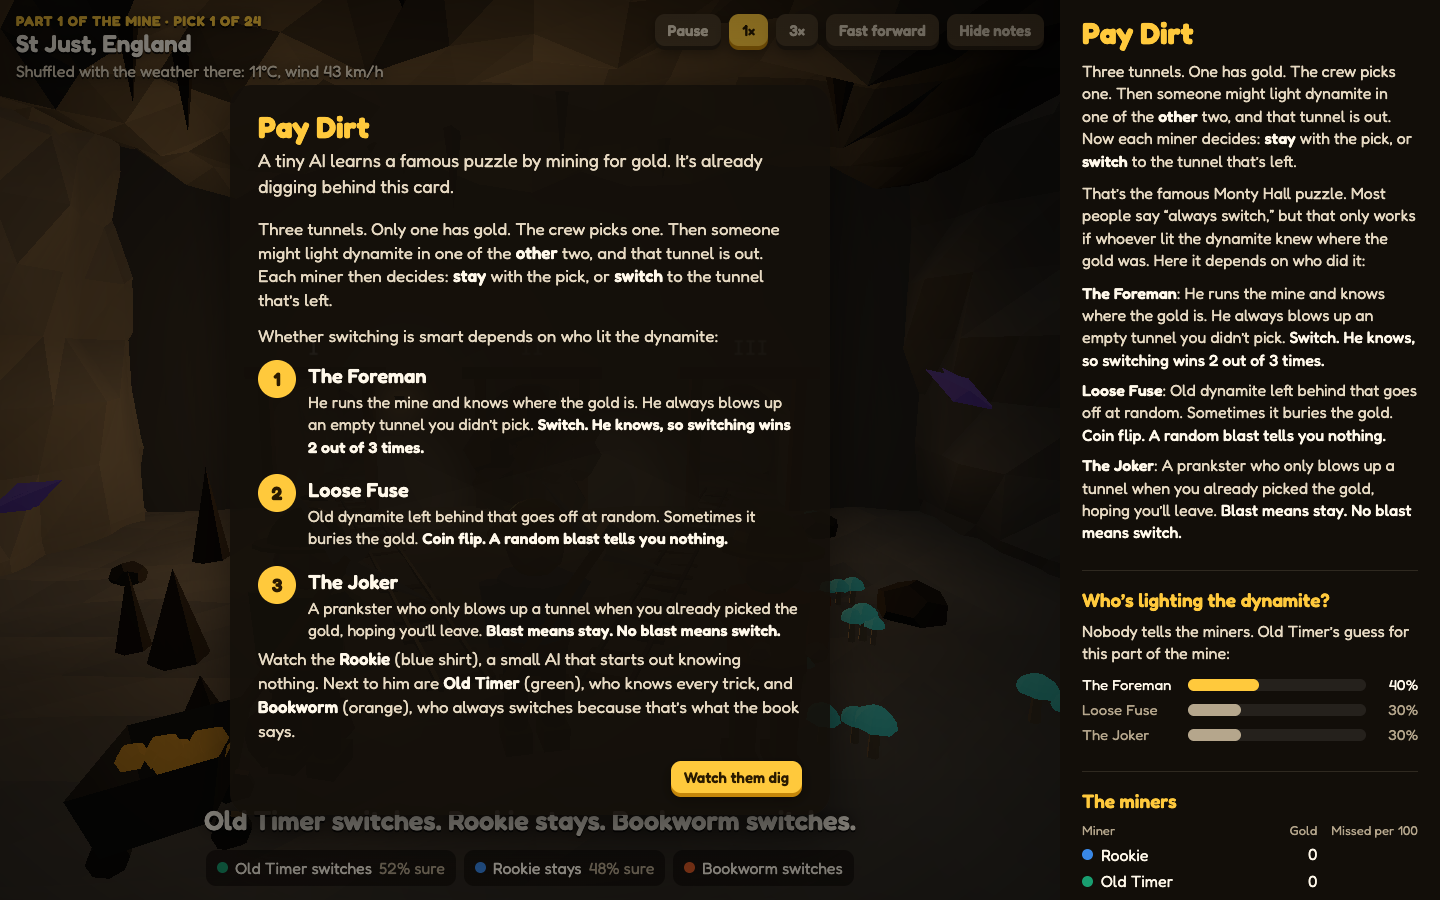
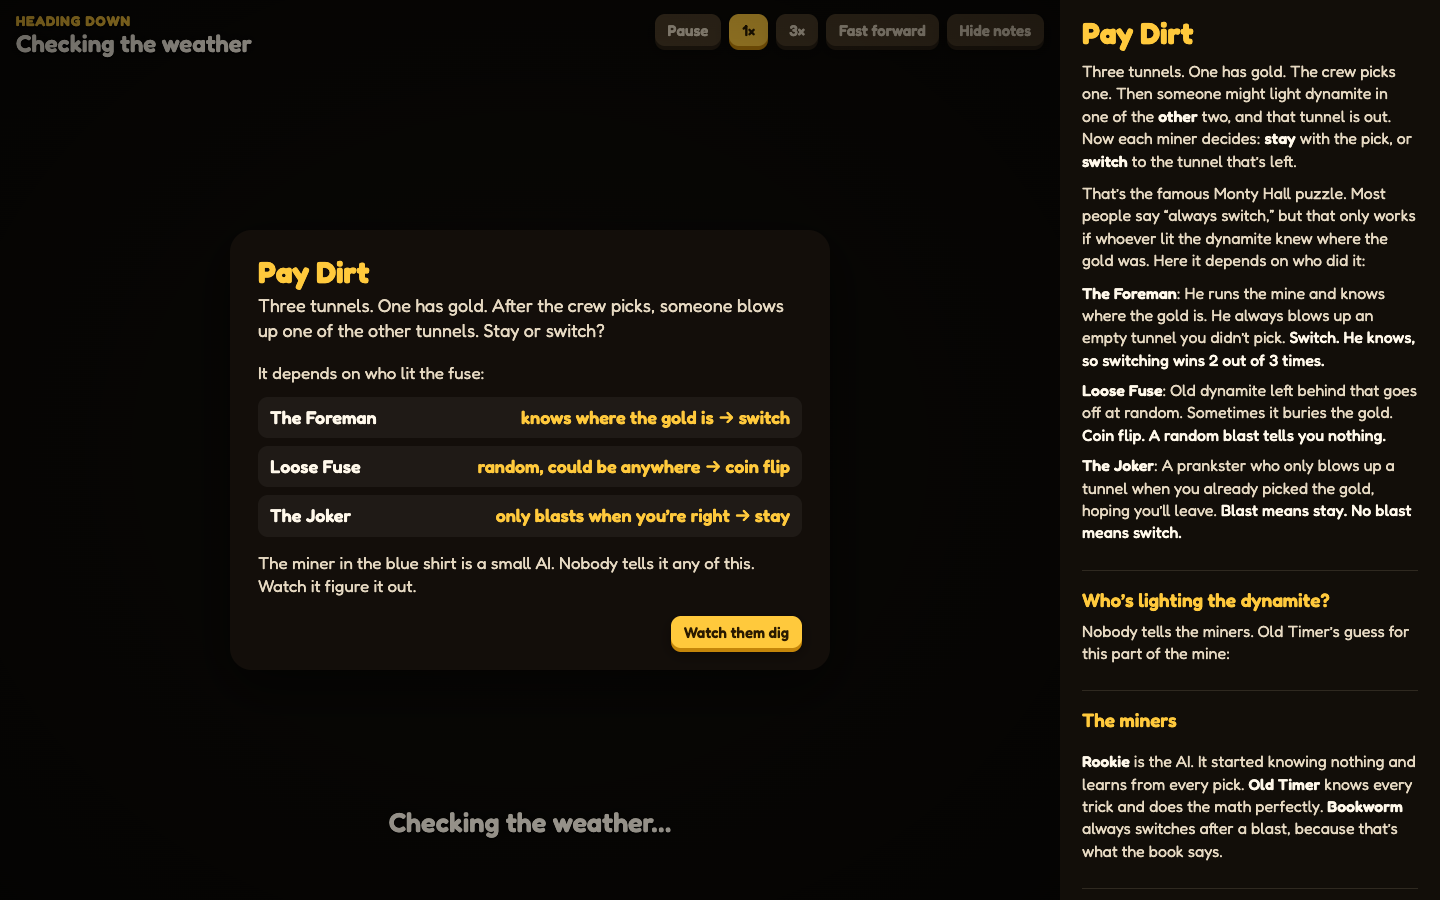
visible dynamite, fixed bookworm arms, short welcome card, never stall on first load
- dynamite strapped to the timber post, lamps on it, 2s fuse, the boom caption waits for the real blast
- bigger longer flash and shake, more rubble falling slower in a lighter color
- camera higher so tunnel mouths sit above the miners
- bookworm holds his book in front instead of arms out the back
- welcome card cut down to the idea in four lines
- startup waits at most 2.5s for weather and 1.5s for storage, then runs and switches to live weather when it lands
- #bare hides the notes; animated gif at the top of the readme

diff --git a/web/cave.js b/web/cave.js
@@ -7,7 +7,7 @@ import { createNoise3D } from 'simplex-noise';
 import { mulberry32 } from './sim.js';
 
 export const MINER_COLORS = { Oracle: 0x199e70, Apprentice: 0x3987e5, Parrot: 0xd95926 };
-const SPOTS = { Oracle: [-4, 6.9], Apprentice: [0, 6], Parrot: [4, 6.9] };
+const SPOTS = { Oracle: [-4.5, 7.6], Apprentice: [0, 7], Parrot: [4.5, 7.6] };
 const STYLES = {
   Oracle: { shirt: 0x2f8a63, pants: 0x4a4035, helmet: 0x7d6a3a, beard: 0xd8d4cc, stoop: 0.12, pick: true },
   Apprentice: { shirt: 0x3d7fd6, pants: 0x3c4a63, helmet: 0xf2c230, beard: null, stoop: 0, pick: true },
@@ -22,7 +22,7 @@ const HIDDEN = new THREE.MeshBasicMaterial({ visible: false });
 const flat = (color, extra = {}) => new THREE.MeshStandardMaterial({ color, flatShading: true, roughness: 0.92, ...extra });
 const MAT = {
   wood: flat(0x6b4a2b), woodDark: flat(0x4a321d), iron: flat(0x62666b, { metalness: 0.5, roughness: 0.5 }),
-  rock: flat(0x4b4239), rubble: flat(0x3e3630), stem: flat(0xd8ccb4),
+  rock: flat(0x4b4239), rubble: flat(0x7a6a58), stem: flat(0xd8ccb4),
   cap: flat(0x7fd6c9, { emissive: 0x1f8f86, emissiveIntensity: 0.9 }),
   crystal: flat(0xb79cf0, { emissive: 0x4b2a8a, emissiveIntensity: 0.7, roughness: 0.3 }),
   ore: flat(0xe7b84f, { emissive: 0x8a5a10, emissiveIntensity: 1.2, metalness: 0.6, roughness: 0.25 }),
@@ -94,7 +94,7 @@ export class Cave {
       return s;
     });
     this.home = this.crew.Apprentice.home;
-    this.camPos = new THREE.Vector3(0, 7.4, 18);
+    this.camPos = new THREE.Vector3(0, 10, 19);
     this.camLook = new THREE.Vector3(0, 3.5, -10);
     this.goalPos = this.camPos.clone();
     this.goalLook = this.camLook.clone();
@@ -343,8 +343,8 @@ export class Cave {
       c.m.rotation.set(0, 0, 0);
       c.aim.set(c.home.x, 2, BACK - 5);
     }
-    this.goalPos.set(0, 7.4, 18);
-    this.goalLook.set(0, 3.2, -10);
+    this.goalPos.set(0, 10, 19);
+    this.goalLook.set(0, 2.4, -10);
   }
 
   aimAll(point) { for (const c of Object.values(this.crew)) c.aim.copy(point); }
@@ -363,7 +363,7 @@ export class Cave {
   }
 
   settle() {
-    for (const e of [...this.effects]) if (e.kind === 'fuse' && !e.done) { e.done = true; this.explode(e.t0, e.ring, e.tnt); }
+    for (const e of [...this.effects]) if (e.kind === 'fuse' && !e.fired) { e.fired = true; this.explode(e.t0, e.ring, e.tnt); e.done(); }
     for (const e of this.effects) if (e.kind === 'fall') e.group.children.forEach((m) => { m.visible = true; m.position.copy(m.userData.rest); });
     this.effects = this.effects.filter((e) => e.kind !== 'fall');
   }
@@ -374,12 +374,12 @@ export class Cave {
     this.labels.forEach((l, i) => { l.material.opacity = i === t ? 1 : 0.5; });
   }
 
-  // someone lights dynamite at the mouth of tunnel t. the fuse burns, then boom
-  blast(t, ring) {
+  // someone lights dynamite at the mouth of tunnel t. the fuse burns, then boom. resolves when it goes off
+  blast(t, ring, fuseSeconds = 2) {
     const tn = this.tunnels[t];
     const tnt = new THREE.Group();
     for (const [x, z] of [[-0.28, 0], [0.28, 0], [0, 0.3]]) {
-      const stick = new THREE.Mesh(new THREE.CylinderGeometry(0.22, 0.22, 1.3, 8), MAT.tnt);
+      const stick = new THREE.Mesh(new THREE.CylinderGeometry(0.3, 0.3, 1.7, 8), MAT.tnt);
       stick.position.set(x, 0.65, z);
       tnt.add(stick);
     }
@@ -388,9 +388,10 @@ export class Cave {
     const spark = glow(0xffd27a, 1.2);
     spark.position.set(-0.15, 2, 0.1);
     tnt.add(fuse, spark);
-    tnt.position.set(tn.x, 0, BACK + 1.6);
+    tnt.position.set(tn.x + (tn.x > 0 ? -1.9 : 1.9), 2.2, BACK + 1.1); // strapped to the inside of the timber post
+    this.aimAll(tnt.position.clone().add(new THREE.Vector3(0, 1, 0)));
     this.forkProps.add(tnt);
-    this.effects.push({ kind: 'fuse', start: performance.now(), tnt, spark, t0: t, ring });
+    return new Promise((done) => this.effects.push({ kind: 'fuse', start: performance.now(), tnt, spark, t0: t, ring, fuseSeconds, done }));
   }
 
   explode(t, ring, tnt) {
@@ -399,27 +400,27 @@ export class Cave {
     const now = performance.now();
     const rubble = new THREE.Group();
     const rng = mulberry32(t * 7919 + 13);
-    for (let i = 0; i < 18; i++) {
-      const m = new THREE.Mesh(new THREE.DodecahedronGeometry(0.6 + rng() * 1.1, 0), MAT.rubble);
+    for (let i = 0; i < 28; i++) {
+      const m = new THREE.Mesh(new THREE.DodecahedronGeometry(0.7 + rng() * 1.2, 0), MAT.rubble);
       m.userData.rest = new THREE.Vector3(tn.x + (rng() - 0.5) * 4.2, 0.3 + rng() * 4.2, BACK + 0.4 + rng() * 1.2); // piled in the mouth
       m.position.copy(m.userData.rest).add(new THREE.Vector3(0, 5, 0));
       m.visible = false;
-      m.userData.delay = 0.05 + rng() * 0.35;
+      m.userData.delay = 0.05 + rng() * 0.6;
       rubble.add(m);
     }
     this.forkProps.add(rubble);
     this.effects.push({ kind: 'fall', group: rubble, start: now });
     this.pulse.color.setHex(0xffa040);
     this.pulse.position.copy(tn.mouth).add(new THREE.Vector3(0, 0, 2.5));
-    this.effects.push({ kind: 'pulse', start: now, peak: 14 });
+    this.effects.push({ kind: 'pulse', start: now, peak: 18 });
     const burst = makeBurst(tn.mouth);
     this.forkProps.add(burst.points);
     this.effects.push({ kind: 'burst', start: now, burst });
-    const flash = glow(0xffc070, 16);
+    const flash = glow(0xffc070, 22);
     flash.position.copy(tn.mouth).add(new THREE.Vector3(0, 0.5, 1));
     this.forkProps.add(flash);
     this.effects.push({ kind: 'flash', start: now, flash });
-    this.shakeUntil = now + 600;
+    this.shakeUntil = now + 900;
     this.labels[t].material.opacity = 0.2;
     if (ring) { this.ore.visible = true; this.effects.push({ kind: 'ore', start: now, bury: true }); }
   }
@@ -445,7 +446,7 @@ export class Cave {
   closeUp(on) {
     this.close = on;
     if (on) { this.goalPos.set(1.8, 4.6, this.home.z - 3.6); this.goalLook.set(0, 3.6, this.home.z); }
-    else { this.goalPos.set(0, 7.4, 18); this.goalLook.set(0, 3.2, -10); }
+    else { this.goalPos.set(0, 10, 19); this.goalLook.set(0, 2.4, -10); }
   }
 
   // everyone walks into the tunnel he chose
@@ -478,10 +479,10 @@ export class Cave {
       c.beam.lookAt(c.lamp.target.position);
     }
     const rk = this.crew.Apprentice;
-    if (rk.walk) this.goalPos.set(rk.m.position.x * 0.2, 6.2, Math.max(BACK + 11, rk.m.position.z + 10));
+    if (rk.walk) this.goalPos.set(rk.m.position.x * 0.2, 9, Math.max(BACK + 12, rk.m.position.z + 11));
     this.camPos.lerp(this.goalPos, 0.05);
     this.camLook.lerp(this.goalLook, 0.05);
-    const shake = this.shakeUntil > performance.now() ? (this.shakeUntil - performance.now()) / 600 : 0;
+    const shake = this.shakeUntil > performance.now() ? (this.shakeUntil - performance.now()) / 900 : 0;
     this.camera.position.set(this.camPos.x + Math.sin(time * 0.4) * 0.1 + (Math.random() - 0.5) * shake * 0.8,
       this.camPos.y + Math.sin(time * 0.31) * 0.08 + (Math.random() - 0.5) * shake * 0.6, this.camPos.z);
     this.camera.lookAt(this.camLook);
@@ -490,22 +491,22 @@ export class Cave {
       e.t = (performance.now() - e.start) / 1000; // real clock so slow frames dont stall an effect
       if (e.kind === 'fuse') {
         e.spark.scale.setScalar(0.8 + Math.random() * 0.9);
-        e.spark.position.y = 2 - e.t * 0.35;
-        if (e.t > 0.9 && !e.done) { e.done = true; this.explode(e.t0, e.ring, e.tnt); }
+        e.spark.position.y = 2 - (e.t / e.fuseSeconds) * 0.7;
+        if (e.t > e.fuseSeconds && !e.fired) { e.fired = true; this.explode(e.t0, e.ring, e.tnt); e.done(); }
       } else if (e.kind === 'burst') {
         stepBurst(e.burst, e.t);
       } else if (e.kind === 'flash') {
-        const k = Math.max(0, 1 - e.t / 0.45);
-        e.flash.material.opacity = k; e.flash.scale.setScalar(10 + 14 * (1 - k));
+        const k = Math.max(0, 1 - e.t / 1.0);
+        e.flash.material.opacity = k; e.flash.scale.setScalar(12 + 20 * (1 - k));
       } else if (e.kind === 'fall') {
         e.group.children.forEach((m) => {
-          const k = Math.max(0, Math.min(1, (e.t - m.userData.delay) / 0.4));
+          const k = Math.max(0, Math.min(1, (e.t - m.userData.delay) / 0.7));
           m.visible = e.t >= m.userData.delay;
           m.position.y = m.userData.rest.y + (1 - k * k) * 5;
           m.rotation.x += dt * (1 - k) * 4;
         });
       } else if (e.kind === 'pulse') {
-        this.pulse.intensity = e.peak * Math.max(0, 1 - e.t / 0.9);
+        this.pulse.intensity = e.peak * Math.max(0, 1 - e.t / 1.6);
       } else if (e.kind === 'shine') {
         this.ore.rotation.y += dt * 0.5;
         this.oreLight.intensity = 3.4 + 0.8 * Math.sin(time * 5);
@@ -602,8 +603,8 @@ function buildMiner(st) {
   add(new THREE.CylinderGeometry(0.88, 0.88, 0.07, 14), helmet, 0, 0.26, 0, head);
   const lamp = add(new THREE.SphereGeometry(0.15, 8, 6), new THREE.MeshBasicMaterial({ color: 0xfff0c8 }), 0, 0.5, -0.7, head);
   if (st.book) {
-    arm(-0.86, [-1.1, 0, 0.35]);
-    arm(0.86, [-1.1, 0, -0.35]);
+    arm(-0.86, [1.15, 0, 0.3]); // both hands out in front holding the book
+    arm(0.86, [1.15, 0, -0.3]);
     const book = new THREE.Group();
     add(new THREE.BoxGeometry(0.9, 0.12, 0.66), mat(0x8a2b2b), 0, 0, 0, book);
     add(new THREE.BoxGeometry(0.84, 0.1, 0.6), mat(0xf1e9d2), 0, 0.08, 0, book);
@@ -612,7 +613,7 @@ function buildMiner(st) {
     torso.add(book);
   } else {
     arm(-0.86, [0, 0, 0.12]);
-    arm(0.86, [-0.2, 0, -0.55]);
+    arm(0.86, [0.35, 0, -0.45]);
   }
   if (st.pick) {
     // pickaxe slung across his back, head up over the right shoulder so it reads from behind

diff --git a/web/index.html b/web/index.html
@@ -76,6 +76,9 @@ body { margin: 0; background: var(--night); color: var(--ink); font: 400 17px/1.
 .steps p { margin: 0; font-size: 16px; }
 .big { font: 700 26px/1.1 var(--font); color: var(--gold); letter-spacing: .04em; }
 .api { font-size: 14px; color: var(--dim); margin-top: 4px; }
+.who-short { list-style: none; padding: 0; margin: 0 0 14px; display: grid; gap: 8px; }
+.who-short li { display: flex; justify-content: space-between; gap: 12px; padding: 8px 12px; border-radius: 10px; background: rgba(255,255,255,.05); font-size: 18px; }
+.who-short b { color: var(--ink); font-weight: 600; } .who-short span { color: var(--gold); font-weight: 600; }
 .tally { list-style: none; padding: 0; margin: 0 0 14px; display: grid; gap: 10px; }
 .tally li { display: grid; grid-template-columns: 120px 1fr 64px; gap: 12px; align-items: center; }
 .bar { height: 12px; border-radius: 6px; background: rgba(255,255,255,.08); overflow: hidden; }
@@ -158,11 +161,10 @@ body { margin: 0; background: var(--night); color: var(--ink); font: 400 17px/1.
     <div class="overlay" id="intro" hidden>
       <div class="card">
         <h2>Pay Dirt</h2>
-        <p class="sub">A tiny AI learns a famous puzzle by mining for gold. It’s already digging behind this card.</p>
-        <p>Three tunnels. Only one has gold. The crew picks one. Then someone might light dynamite in one of the <b>other</b> two, and that tunnel is out. Each miner then decides: <b>stay</b> with the pick, or <b>switch</b> to the tunnel that’s left.</p>
-        <p>Whether switching is smart depends on who lit the dynamite:</p>
-        <ul class="steps" id="introSpirits"></ul>
-        <p>Watch the <b>Rookie</b> (blue shirt), a small AI that starts out knowing nothing. Next to him are <b>Old Timer</b> (green), who knows every trick, and <b>Bookworm</b> (orange), who always switches because that’s what the book says.</p>
+        <p class="sub">Three tunnels. One has gold. After the crew picks, someone blows up one of the other tunnels. Stay or switch?</p>
+        <p>It depends on who lit the fuse:</p>
+        <ul class="who-short" id="introSpirits"></ul>
+        <p>The miner in the blue shirt is a small AI. Nobody tells it any of this. Watch it figure it out.</p>
         <div class="cardbtns"><span></span><button type="button" class="btn" id="btnIntro">Watch them dig</button></div>
       </div>
     </div>

diff --git a/web/main.js b/web/main.js
@@ -55,11 +55,11 @@ async function forkCycle() {
   await say(`The crew picks tunnel ${ROMAN[f.pick]}.`, 0.8);
 
   if (f.k !== null) {
-    cave.blast(f.k, f.ring);
-    await say(`Someone lit dynamite in tunnel ${ROMAN[f.k]}…`, 0.6);
+    $('narration').textContent = `Someone lit dynamite in tunnel ${ROMAN[f.k]}…`;
+    await cave.blast(f.k, f.ring, 2 / state.speed); // the boom line waits for the actual boom
     $('narration').textContent = f.ring ? `Boom! Tunnel ${ROMAN[f.k]} is gone, and the gold was in it.` : `Boom! Tunnel ${ROMAN[f.k]} is blown shut.`;
     await freeze('boom');
-    await wait(0.8);
+    await wait(1.0);
     cave.inspect(f.k);
     await say(f.ring ? `The gold is buried under the rubble in tunnel ${ROMAN[f.k]}. Nobody can get it now.` : `Nothing in tunnel ${ROMAN[f.k]} but rubble. That leaves tunnels ${ROMAN[f.pick]} and ${ROMAN[f.target]}.`, 1);
     await freeze('blast');
@@ -282,7 +282,8 @@ function bindControls() {
 async function boot() {
   bindControls();
   $('spirits').innerHTML = SPIRITS.map((s) => `<li><b>${s.name}</b>: ${s.rule} <em>${s.lesson}</em></li>`).join('');
-  $('introSpirits').innerHTML = SPIRITS.map((s, i) => `<li><span class="n">${i + 1}</span><div><h3>${s.name}</h3><p>${s.rule} <b>${s.lesson}</b></p></div></li>`).join('');
+  const gist = ['knows where the gold is → switch', 'random, could be anywhere → coin flip', 'only blasts when you’re right → stay'];
+  $('introSpirits').innerHTML = SPIRITS.map((s, i) => `<li><b>${s.name}</b><span>${gist[i]}</span></li>`).join('');
   let seen = false;
   try { seen = localStorage.getItem('payDirtSeen') === '1'; } catch { /* storage blocked, show it */ }
   if (!seen && !DEV.seed) $('intro').hidden = false;
@@ -309,6 +310,7 @@ async function boot() {
   cave = new Cave($('cave'));
   renderNotes();
   if (location.hash === '#turbo') document.querySelector('[data-speed="turbo"]').click();
+  if (location.hash === '#bare') $('btnNotes').click(); // just the cave, for clips and streams
   const loop = () => { requestAnimationFrame(loop); try { cave.tick(); } catch (e) { console.error(e); } };
   requestAnimationFrame(loop);
   runLoop();

diff --git a/web/entropy.js b/web/entropy.js
@@ -47,14 +47,15 @@ export class WeatherDice {
   }
 
   async start() {
-    await this.fetchWeather();
-    // couldnt reach the api: the saved reading never changes, so mix in the browser's own randomness
+    // give the weather 2.5s. if its slower the mine starts on the saved reading and switches when it lands
+    const first = this.fetchWeather();
+    await Promise.race([first, new Promise((r) => setTimeout(r, 2500))]);
+    // the saved reading never changes, so mix in the browser's own randomness until live weather arrives
     if (!this.live) { const a = new Uint32Array(1); crypto.getRandomValues(a); this.salt = `|browser ${a[0]}`; }
     await this.refill();
-    if (this.live) {
-      this.nextCheck = Date.now() + EVERY;
-      setInterval(async () => { this.nextCheck = Date.now() + EVERY; await this.fetchWeather(); }, EVERY);
-    }
+    first.then(() => { if (this.live) this.salt = ''; });
+    this.nextCheck = Date.now() + EVERY;
+    setInterval(async () => { this.nextCheck = Date.now() + EVERY; await this.fetchWeather(); if (this.live) this.salt = ''; }, EVERY);
     return this;
   }
 

diff --git a/web/log.js b/web/log.js
@@ -34,7 +34,8 @@ export class DecisionLog {
     try {
       const open = indexedDB.open(DB, 1);
       open.onupgradeneeded = () => open.result.createObjectStore(STORE, { autoIncrement: true });
-      this.db = await req(open);
+      // never hold up the page for storage. if it isnt open in 1.5s, keep picks in memory
+      this.db = await Promise.race([req(open), new Promise((_, rej) => setTimeout(() => rej(new Error('slow')), 1500))]);
       this.stored = await req(this.db.transaction(STORE).objectStore(STORE).count());
     } catch {
       this.db = null; // private window or blocked storage. still works in memory

diff --git a/README.md b/README.md
@@ -4,7 +4,7 @@ A tiny AI learns a famous puzzle by mining for gold, live in your browser.
 
 **[▶ Play it](https://porkedchop.github.io/pay-dirt/)** · free, nothing to install
 
-![Three miners in front of three tunnels. One tunnel is blocked by rubble.](docs/walkthrough/6-calls.png)
+[![Three miners, three tunnels, one has gold. Dynamite blows one tunnel shut.](docs/pay-dirt.gif)](https://porkedchop.github.io/pay-dirt/)
 
 ## The idea in one minute
 
@@ -32,7 +32,7 @@ They stand side by side at the same spot, see the same first pick and the same b
 
 ## Walkthrough
 
-**0. Opening the page.** A welcome card explains the game while the mine is already running behind it.
+**0. Opening the page.** A short welcome card explains the idea while the mine is already running behind it.
 
 ![The welcome card](docs/walkthrough/0-welcome.png)
 
@@ -48,7 +48,7 @@ They stand side by side at the same spot, see the same first pick and the same b
 
 ![The crew picks a tunnel](docs/walkthrough/3-pick.png)
 
-**4. Someone lights dynamite in another tunnel.** Boom.
+**4. Someone lights dynamite in another tunnel.** The headlamps find it strapped to the timber, the fuse burns, and boom.
 
 ![The blast](docs/walkthrough/4-boom.png)
 
@@ -108,7 +108,7 @@ cd web && python3 -m http.server 8000
 # http://localhost:8000/#turbo starts in fast forward
 ```
 
-Replay an exact run (handy for bug reports and screenshots): `http://localhost:8000/?seed=7&skip=1209&freeze=calls`. The freeze points are `pick`, `boom`, `blast`, `calls`, `reveal`, `done` and `shuffle`. Replay mode skips the welcome card.
+Replay an exact run (handy for bug reports and screenshots): `http://localhost:8000/?seed=7&skip=1209&freeze=calls`. The freeze points are `pick`, `boom`, `blast`, `calls`, `reveal`, `done` and `shuffle`. Replay mode skips the welcome card. Add `#bare` to hide the notes, handy for clips and streams.
 
 ## Every pick, saved
 
